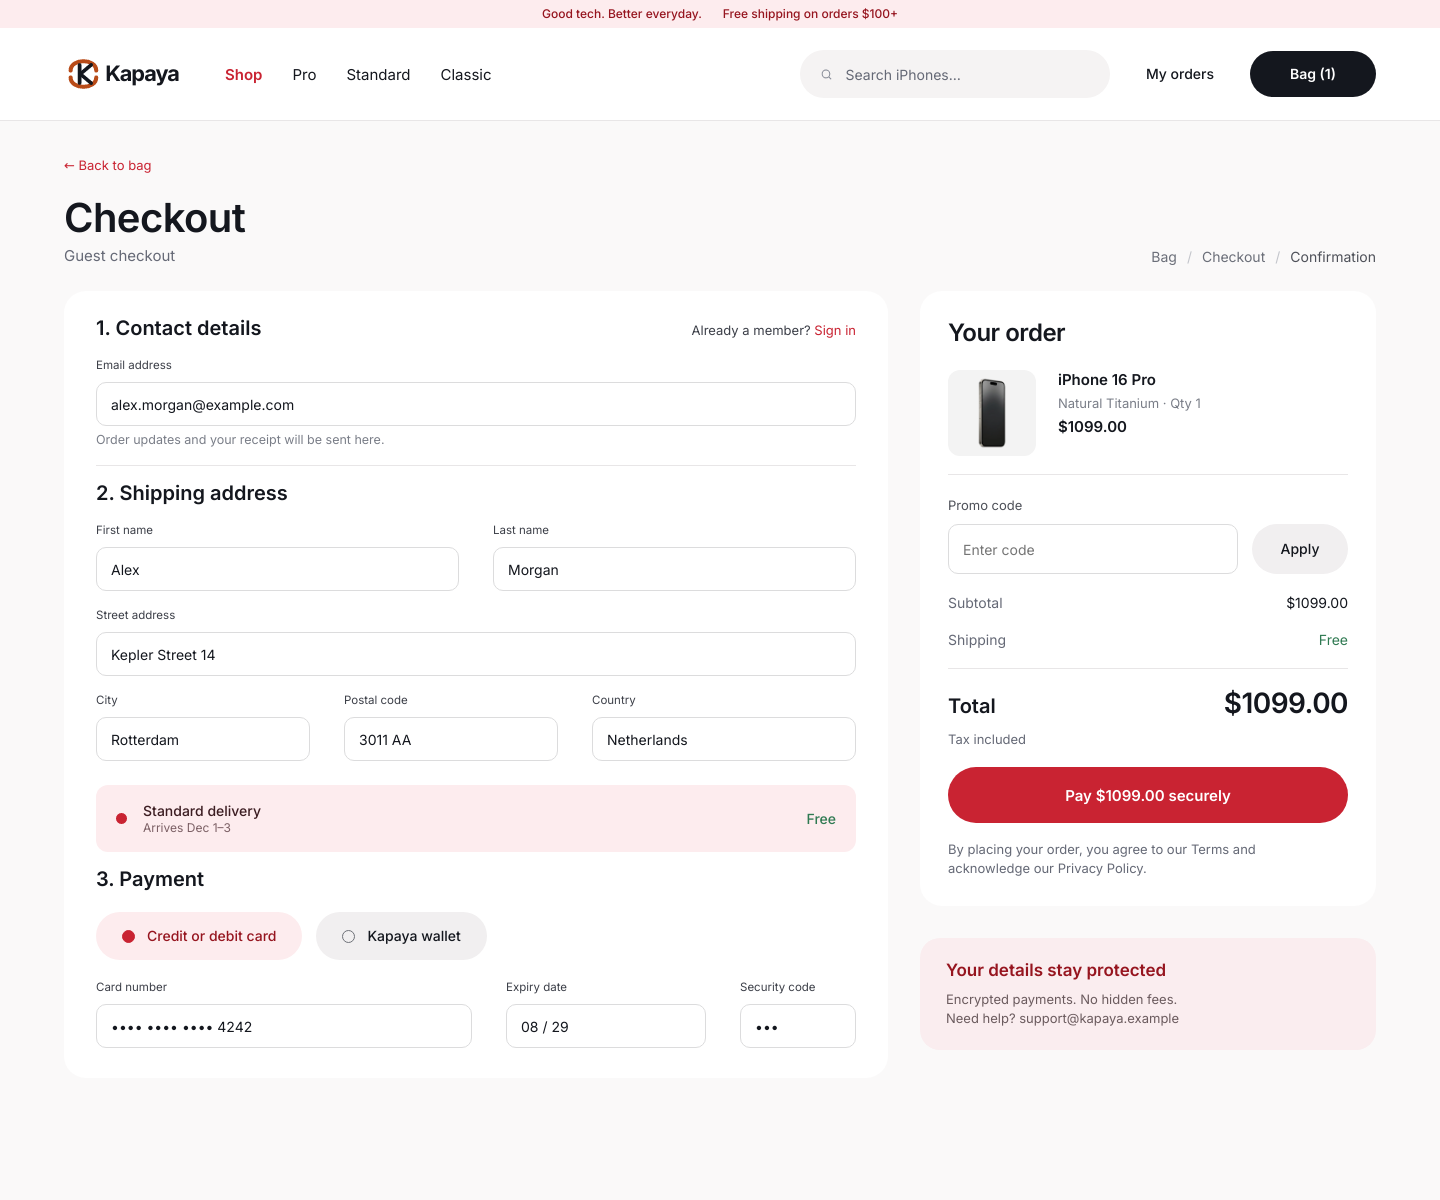
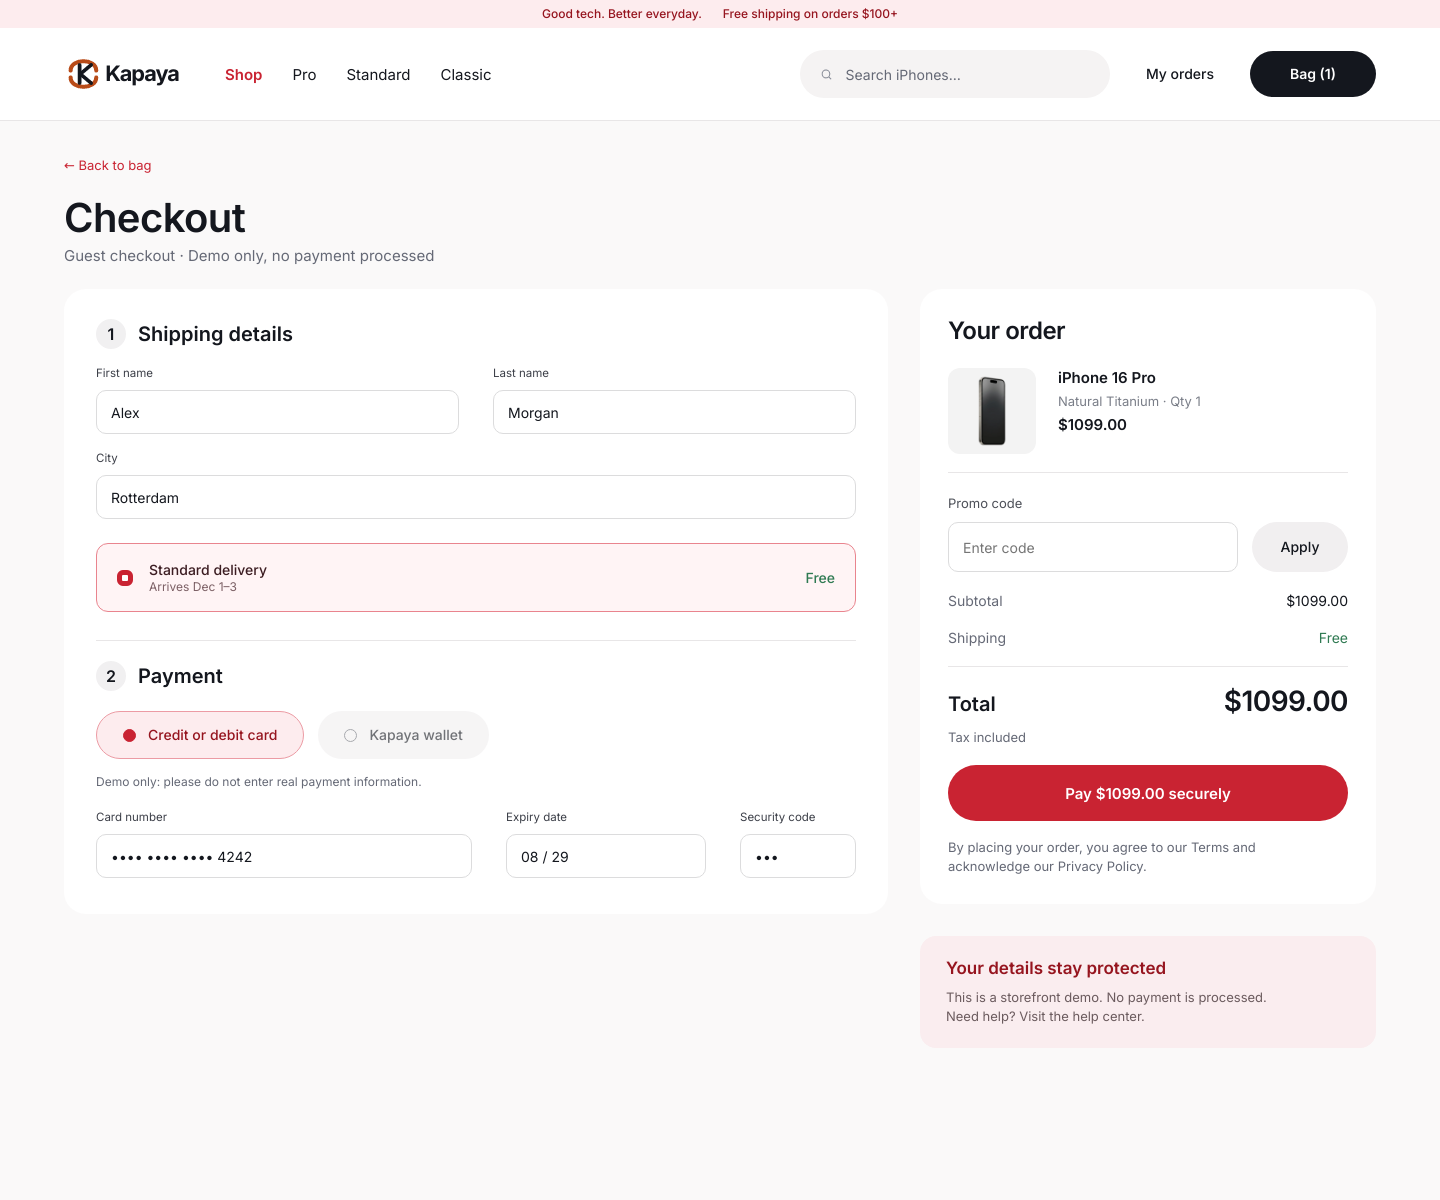
Refresh checkout and add mobile chat

diff --git a/docs/mockup/index.html b/docs/mockup/index.html
@@ -1264,6 +1264,71 @@ body.is-shop .shop-footer{display:block;margin-top:auto}
   .home-ftr{padding:36px 24px 24px}
 }
 
+/* Checkout and support chat */
+.checkout-page .co-grid{margin-top:24px}
+.checkout-page .co-card{padding:30px 32px 36px}
+.checkout-page .co-h{display:flex;align-items:center;gap:12px;font-size:20px}
+.co-number{display:inline-flex;align-items:center;justify-content:center;width:30px;height:30px;border-radius:50%;background:#f1f0f1;font:600 16px/1 Inter;flex:none}
+.checkout-page .deliv{border:1px solid #e9848e;background:#fff4f5}
+.checkout-page .deliv-dot{width:16px;height:16px;border:5px solid #c92332;background:white}
+.checkout-page .payment-rule{margin:28px 0 20px}
+.checkout-page .pay-tab.is-on{border:1px solid #ec9ba4}
+.checkout-page .pay-tab:disabled{opacity:.6;cursor:not-allowed}
+.checkout-demo-note{font:400 12px/17px Inter;color:#656976;margin-top:14px}
+.checkout-page .protect{border-radius:16px}
+.chat-page{max-width:900px;width:100%;margin:0 auto}
+.chat-panel{margin-top:24px;background:#fff;border-radius:22px;overflow:hidden;box-shadow:0 6px 30px rgba(20,23,30,.05);border:1px solid #f0eeee}
+.chat-header{display:flex;gap:17px;align-items:center;padding:28px 30px}
+.chat-avatar{width:52px;height:52px;flex:none;border-radius:50%;display:grid;place-items:center;background:#fcebed;color:#b91e2d;font:700 22px/1 Inter}
+.chat-eyebrow{font:600 10px/1.2 Inter;letter-spacing:.1em;color:#b91e2d}
+.chat-header h1{font:600 25px/31px Inter;letter-spacing:-.025em;margin-top:5px}
+.chat-header p:last-child{font:400 13px/19px Inter;color:#656976;margin-top:3px}
+.chat-notice{background:#fceff0;color:#8d3942;padding:12px 30px;font:500 12px/17px Inter}
+.chat-messages{min-height:260px;max-height:420px;overflow-y:auto;display:flex;flex-direction:column;gap:14px;padding:26px 30px}
+.chat-bubble{max-width:80%;padding:13px 16px;border-radius:16px;font:400 14px/21px Inter;overflow-wrap:anywhere;white-space:pre-wrap}
+.chat-reply{align-self:flex-start;background:#f5f4f4;border-bottom-left-radius:5px}
+.chat-sent{align-self:flex-end;background:#c92332;color:white;border-bottom-right-radius:5px}
+.chat-compose{padding:0 30px 18px}
+.chat-label{display:block;font:500 12px/16px Inter;color:#656976;margin-bottom:8px}
+.chat-input-row{display:flex;gap:10px}
+.chat-input-row input{flex:1;min-width:0;height:48px;border:1px solid #dedbdb;border-radius:24px;padding:0 18px;font:400 14px/1 Inter}
+.chat-input-row input:focus{outline:2px solid rgba(201,35,50,.25);border-color:#c92332}
+.chat-input-row button{height:48px;border-radius:24px;background:#14171e;color:#fff;padding:0 22px;font:600 13px/1 Inter}
+.chat-foot{border-top:1px solid #efeded;padding:16px 30px;color:#656976;font:400 12px/17px Inter}
+.chat-foot a{color:#c92332;font-weight:500}
+@media(max-width:767px){
+ .checkout-page{padding:18px 14px 32px}
+ .checkout-page .co-head{margin-top:12px}
+ .checkout-page .page-h{font-size:28px;line-height:34px}
+ .checkout-page .page-p{font-size:12px}
+ .checkout-page .co-grid{gap:12px;margin-top:16px}
+ .checkout-page .co-card{padding:20px 16px;border-radius:16px}
+ .checkout-page .co-h{font-size:18px;line-height:24px}
+ .checkout-page .two{grid-template-columns:repeat(2,minmax(0,1fr));gap:0 12px}
+ .checkout-page .fld{margin-top:14px}
+ .checkout-page .fld-l{margin-bottom:6px}
+ .checkout-page .fld-i{height:44px}
+ .checkout-page .deliv{padding:14px;margin-top:18px}
+ .checkout-page .payment-rule{margin:22px 0 18px}
+ .checkout-page .pay-tabs{flex-wrap:nowrap;gap:8px;margin-top:14px}
+ .checkout-page .pay-tab{height:42px;min-width:0;padding:0 12px;font-size:11px;gap:6px}
+ .checkout-page .pay-fields{grid-template-columns:repeat(2,minmax(0,1fr));gap:0 12px}
+ .checkout-page .pay-fields .w-card{grid-column:1 / -1}
+ .checkout-page .order-card{padding:20px 16px}
+ .checkout-page .protect{padding:18px;margin-top:12px}
+ .chat-page{padding:18px 14px 28px}
+ .chat-panel{margin-top:16px;border-radius:17px}
+ .chat-header{padding:22px 18px;gap:12px}
+ .chat-avatar{width:44px;height:44px;font-size:19px}
+ .chat-header h1{font-size:21px;line-height:27px}
+ .chat-header p:last-child{font-size:12px}
+ .chat-notice{padding:11px 18px;font-size:11px}
+ .chat-messages{padding:22px 18px;min-height:240px}
+ .chat-bubble{font-size:13px;line-height:19px;max-width:90%}
+ .chat-compose{padding:0 18px 16px}
+ .chat-foot{padding:14px 18px}
+}
+
 /* Bag: clear item controls and an editorial order summary. */
 .bag-page .bag-card{position:relative}
 .bag-page .bag-thumb img{object-fit:cover;padding:0}
@@ -1440,7 +1505,7 @@ body.is-shop .shop-footer{display:block;margin-top:auto}
     <nav id="mobile-menu" class="mobile-menu" aria-label="Mobile navigation" hidden>
       <div class="mobile-home-links"><a href="#the-edit" data-scroll="the-edit">The Edit</a><a href="#finishes" data-scroll="finishes">Finishes</a><a href="#generations" data-scroll="generations">Generations</a><a href="#why-kapaya" data-scroll="why-kapaya">Why Kapaya</a></div>
       <div class="mobile-store-links"><a data-go="shop">All iPhones</a><a data-go="shop" data-arg="pro">Pro</a><a data-go="shop" data-arg="standard">Standard</a><a data-go="shop" data-arg="classic">Classic</a></div>
-      <a data-go="account">My orders</a><a data-go="help">Help &amp; support</a><a class="mobile-menu-cta" data-go="shop">Start shopping <span>→</span></a>
+      <a data-go="account">My orders</a><a data-go="chat">Chat</a><a data-go="help">Help &amp; support</a><a class="mobile-menu-cta" data-go="shop">Start shopping <span>→</span></a>
     </nav>
   </div>
   <a class="mark" data-go="home" aria-label="Kapaya home"><svg class="brand-logo" viewBox="0 0 340 100" role="img" aria-label="Kapaya" xmlns="http://www.w3.org/2000/svg">
@@ -1491,10 +1556,10 @@ body.is-shop .shop-footer{display:block;margin-top:auto}
 </header>
 <div id="app"></div>
 <nav class="mobile-bottom" aria-label="Mobile navigation">
-    <button data-go="home" data-mobile-route="home"><svg viewBox="0 0 24 24" fill="none" stroke="currentColor" stroke-width="1.7" stroke-linecap="round" stroke-linejoin="round"><path d="M3 11 12 3l9 8M5 10v10h5v-6h4v6h5V10"/></svg><span>Home</span></button>
+    <button data-go="home" data-mobile-route="home"><svg viewBox="0 0 24 24" fill="none" stroke="currentColor" stroke-width="1.7" stroke-linecap="round" stroke-linejoin="round"><rect x="4" y="3" width="16" height="18" rx="2"/><path d="M8 8h8M8 12h8M8 16h5"/></svg><span>Landing</span></button>
     <button data-go="shop" data-mobile-route="shop"><svg viewBox="0 0 24 24" fill="none" stroke="currentColor" stroke-width="1.7"><rect x="5" y="2" width="14" height="20" rx="2"/><path d="M10 19h4"/></svg><span>Shop</span></button>
     <button data-go="account" data-mobile-route="account"><svg viewBox="0 0 24 24" fill="none" stroke="currentColor" stroke-width="1.7" stroke-linejoin="round"><path d="m12 2 9 5v10l-9 5-9-5V7zM3 7l9 5 9-5M12 12v10"/></svg><span>Orders</span></button>
-    <button data-mobile-menu data-mobile-route="more" aria-label="More navigation options" aria-expanded="false" aria-controls="mobile-menu"><svg viewBox="0 0 24 24" fill="none" stroke="currentColor" stroke-width="1.7"><circle cx="5" cy="12" r="1.5"/><circle cx="12" cy="12" r="1.5"/><circle cx="19" cy="12" r="1.5"/></svg><span>More</span></button>
+    <button data-go="chat" data-mobile-route="chat"><svg viewBox="0 0 24 24" fill="none" stroke="currentColor" stroke-width="1.7" stroke-linecap="round" stroke-linejoin="round"><path d="M20 11.5c0 4-3.6 7-8 7-1 0-2-.2-2.8-.5L5 20l1-3.8a6.8 6.8 0 0 1-2-4.7c0-4 3.6-7 8-7s8 3 8 7z"/><path d="M8.5 11.5h7"/></svg><span>Chat</span></button>
   </nav>
 <div class="toast" id="toast" role="status" aria-live="polite"></div>
 <script>
@@ -1936,39 +2001,25 @@ const checkout = (state) => {
   const f = state.form;
 
   return `
-<main class="page">
+<main class="page checkout-page">
   <a class="back" data-go="bag">← Back to bag</a>
 
   <div class="co-head">
     <div>
       <h1 class="page-h">Checkout</h1>
-      <p class="page-p">Guest checkout</p>
+      <p class="page-p">Guest checkout · Demo only, no payment processed</p>
     </div>
-    <p class="steps">Bag<span class="sep">/</span>Checkout<span class="sep">/</span><span class="steps-cur">Confirmation</span></p>
   </div>
 
   <form class="co-grid" data-checkout novalidate>
     <div class="co-main">
       <div class="co-card">
-        <div class="co-row-h">
-          <h2 class="co-h">1. Contact details</h2>
-          <p class="co-signin">Already a member? <a class="link-red" data-go="account">Sign in</a></p>
-        </div>
-        ${fld('Email address', 'email', f.email, { type: 'email' })}
-        <p class="co-help">Order updates and your receipt will be sent here.</p>
-        <div class="co-rule"></div>
-
-        <h2 class="co-h mt">2. Shipping address</h2>
+        <h2 class="co-h"><span class="co-number">1</span>Shipping details</h2>
         <div class="two">
           ${fld('First name', 'first', f.first)}
           ${fld('Last name', 'last', f.last)}
         </div>
-        ${fld('Street address', 'street', f.street)}
-        <div class="three">
-          ${fld('City', 'city', f.city)}
-          ${fld('Postal code', 'postal', f.postal)}
-          ${fld('Country', 'country', f.country)}
-        </div>
+        ${fld('City', 'city', f.city)}
 
         <div class="deliv">
           <span class="deliv-dot"></span>
@@ -1979,11 +2030,13 @@ const checkout = (state) => {
           <span class="deliv-free">${ship === 0 ? 'Free' : money(ship)}</span>
         </div>
 
-        <h2 class="co-h mt">3. Payment</h2>
+        <div class="co-rule payment-rule"></div>
+        <h2 class="co-h mt"><span class="co-number">2</span>Payment</h2>
         <div class="pay-tabs">
           <button type="button" class="pay-tab is-on"><span class="radio on"></span>Credit or debit card</button>
-          <button type="button" class="pay-tab"><span class="radio"></span>Kapaya wallet</button>
+          <button type="button" class="pay-tab" disabled title="Wallet is not available in this demo"><span class="radio"></span>Kapaya wallet</button>
         </div>
+        <p class="checkout-demo-note">Demo only: please do not enter real payment information.</p>
         <div class="pay-fields">
           ${fld('Card number', 'card', f.card, { cls: 'w-card', inputmode: 'numeric' })}
           ${fld('Expiry date', 'exp', f.exp, { cls: 'w-exp' })}
@@ -2026,7 +2079,7 @@ const checkout = (state) => {
 
       <div class="protect">
         <p class="protect-h">Your details stay protected</p>
-        <p class="protect-p">Encrypted payments. No hidden fees.<br>Need help? support@kapaya.example</p>
+        <p class="protect-p">This is a storefront demo. No payment is processed.<br>Need help? Visit the help center.</p>
       </div>
     </aside>
   </form>
@@ -2042,7 +2095,7 @@ const confirmed = (state) => {
     <div class="done-l">
       <p class="done-eyebrow">ORDER ${o.id} · ${o.date}</p>
       <h1 class="done-h">Thanks, ${o.first}. You’re all set.</h1>
-      <p class="done-p">Your payment of ${money(total)} was successful. A receipt is on its way to<br>${o.email}</p>
+      <p class="done-p">Your demo order total is ${money(total)}. No payment was processed.</p>
       <div class="done-actions">
         <button class="btn-red btn-details" data-go="order">View order details</button>
         <button class="btn-plain" data-go="shop">Continue shopping</button>
@@ -2059,7 +2112,7 @@ const confirmed = (state) => {
     <div class="done-col">
       <div class="track-card">
         <h2 class="card-h">Your order is getting ready</h2>
-        <p class="track-p">We’ll email you tracking details as soon as it ships.</p>
+        <p class="track-p">This is a demo order; no shipment will be created.</p>
         <div class="track">
           ${[['01', 'Confirmed', true], ['02', 'Preparing'], ['03', 'Shipped'], ['04', 'Delivered']]
             .map(([n, l, done]) => `<div class="track-i${done ? ' is-done' : ''}">
@@ -2073,14 +2126,14 @@ const confirmed = (state) => {
         <div class="info-col">
           <h3 class="info-h">Delivering to</h3>
           <p class="info-b">${o.first} ${o.last}</p>
-          <p class="info-p">${o.street}<br>${o.postal} ${o.city}<br>${o.country}</p>
+          <p class="info-p">${o.street ? o.street + '<br>' : ''}${o.postal ? o.postal + ' ' : ''}${o.city}${o.country ? '<br>' + o.country : ''}</p>
         </div>
         <div class="info-sep"></div>
         <div class="info-col">
           <h3 class="info-h">Payment details</h3>
           <p class="info-b">Visa ending in ${o.last4}</p>
-          <p class="info-p">${money(total)} paid · Tax included</p>
-          <a class="info-link" data-receipt>Download receipt <span class="arw">→</span></a>
+          <p class="info-p">${money(total)} demo total · Tax included</p>
+
         </div>
       </div>
     </div>
@@ -2173,7 +2226,7 @@ const account = (state) => `
       </div>
       <div class="protect">
         <p class="protect-h">Your details stay protected</p>
-        <p class="protect-p">Encrypted payments. No hidden fees.<br>Need help? support@kapaya.example</p>
+        <p class="protect-p">This is a storefront demo. No payment is processed.<br>Need help? Visit the help center.</p>
       </div>
     </aside>
   </div>
@@ -2207,14 +2260,14 @@ const orderDetail = (state) => {
         <div class="info-col">
           <h3 class="info-h">Delivering to</h3>
           <p class="info-b">${o.first} ${o.last}</p>
-          <p class="info-p">${o.street}<br>${o.postal} ${o.city}<br>${o.country}</p>
+          <p class="info-p">${o.street ? o.street + '<br>' : ''}${o.postal ? o.postal + ' ' : ''}${o.city}${o.country ? '<br>' + o.country : ''}</p>
         </div>
         <div class="info-sep"></div>
         <div class="info-col">
           <h3 class="info-h">Payment details</h3>
           <p class="info-b">Visa ending in ${o.last4}</p>
           <p class="info-p">${money(o.total)} paid · Tax included</p>
-          <a class="info-link" data-receipt>Download receipt <span class="arw">→</span></a>
+
         </div>
       </div>
     </div>
@@ -2266,7 +2319,22 @@ const help = () => `
     <a class="btn-plain sm" data-go="shop">Back to shopping <span class="arw">→</span></a>
   </div>
 </main>`;
-const VIEWS = { home, shop, product, bag, checkout, confirmed, account, order: orderDetail, help };
+const escapeText = (text) => String(text).replace(/&/g, '&amp;').replace(/</g, '&lt;').replace(/>/g, '&gt;').replace(/"/g, '&quot;');
+const chat = (state) => `
+<main class="page chat-page">
+  <a class="back" data-go="shop">← Back to shopping</a>
+  <section class="chat-panel" aria-labelledby="chat-title">
+    <div class="chat-header"><div class="chat-avatar" aria-hidden="true">K</div><div><p class="chat-eyebrow">KAPAYA SUPPORT</p><h1 id="chat-title">Let’s chat</h1><p>Questions about your iPhone? We’re here to help.</p></div></div>
+    <div class="chat-notice">Demo chat · Messages are not sent to a support team.</div>
+    <div class="chat-messages" aria-live="polite" aria-label="Conversation">
+      <div class="chat-bubble chat-reply">Hi there! Welcome to Kapaya. What can we help you with today?</div>
+      ${state.messages.map((message) => `<div class="chat-bubble chat-sent">${escapeText(message)}</div><div class="chat-bubble chat-reply">Thanks for your message. This is a demo chat, so no one will receive it. Explore our help center for more information.</div>`).join('')}
+    </div>
+    <form class="chat-compose" data-chat-form><label class="chat-label" for="chat-message">Your message</label><div class="chat-input-row"><input id="chat-message" name="message" maxlength="500" placeholder="Write a message…" required autocomplete="off"><button type="submit">Send <span aria-hidden="true">→</span></button></div></form>
+    <div class="chat-foot">Need more information? <a data-go="help">Visit the help center →</a></div>
+  </section>
+</main>`;
+const VIEWS = { home, shop, product, bag, checkout, confirmed, account, order: orderDetail, help, chat };
 
 const initialParts = location.hash.replace(/^#\/?/, '').split('/');
 const initialRoute = initialParts[0] === 'orders' ? 'order' : initialParts[0];
@@ -2276,7 +2344,7 @@ let expectedHash = location.hash || '#/home';
 
 const store = {
   route: VIEWS[initialRoute] ? initialRoute : 'home', arg: null,
-  cart: [], favs: [], orders: [],
+  cart: [], favs: [], orders: [], messages: [],
   cat: initialRoute === 'shop' && initialArg && !['all', 'store'].includes(initialArg) ? initialArg : 'all',
   sort: 'featured', query: '',
   product: initialProduct, qty: 1, color: initialProduct.colors[0], storage: '128GB', galleryIndex: 0, tab: 'overview',
@@ -2304,7 +2372,7 @@ try {
     if (Array.isArray(saved.cart)) store.cart = saved.cart;
     if (Array.isArray(saved.favs)) store.favs = saved.favs;
     if (Array.isArray(saved.orders)) store.orders = saved.orders;
-    if (saved.form) Object.assign(store.form, saved.form);
+    if (saved.form) { const {card, exp, cvc, ...details} = saved.form; Object.assign(store.form, details); }
   }
   if (legacyKey) localStorage.removeItem(legacyKey);
 } catch (e) {}
@@ -2312,7 +2380,7 @@ try {
 const persist = () => {
   try {
     localStorage.setItem(APP_STATE_KEY, JSON.stringify({
-      cart: store.cart, favs: store.favs, orders: store.orders, form: store.form,
+      cart: store.cart, favs: store.favs, orders: store.orders, form: (({card, exp, cvc, ...details}) => details)(store.form),
     }));
   } catch (e) {}
 };
@@ -2398,7 +2466,7 @@ function paint() {
     el.textContent = el.classList.contains('hdr-n') ? String(count()) : 'Bag (' + count() + ')';
   });
   renderFavs();
-  const mobileRoute = store.route === 'home' ? 'home' : ['account', 'order'].includes(store.route) ? 'account' : store.route === 'help' ? 'more' : 'shop';
+  const mobileRoute = store.route === 'home' ? 'home' : ['account', 'order'].includes(store.route) ? 'account' : ['chat', 'help'].includes(store.route) ? 'chat' : 'shop';
   $$('[data-mobile-route]').forEach((el) => { const active = el.dataset.mobileRoute === mobileRoute; el.classList.toggle('is-current', active); if (active) el.setAttribute('aria-current', 'page'); else el.removeAttribute('aria-current'); });
 
   const si = $('.search input');
@@ -2596,6 +2664,16 @@ document.addEventListener('input', (e) => {
 });
 
 document.addEventListener('submit', (e) => {
+  if (e.target.matches('[data-chat-form]')) {
+    e.preventDefault();
+    const input = $('input[name="message"]', e.target), message = input.value.trim();
+    if (!message) return;
+    store.messages.push(message);
+    paint();
+    const list = $('.chat-messages'); list.scrollTop = list.scrollHeight;
+    $('#chat-message').focus();
+    return;
+  }
   if (e.target.matches('[data-mobile-search]')) { e.preventDefault(); store.query = $('input', e.target).value.trim(); go('shop', 'all'); return; }
   if (e.target.matches('[data-search]')) {
     e.preventDefault();
@@ -2607,10 +2685,8 @@ document.addEventListener('submit', (e) => {
   e.preventDefault();
   const f = store.form;
   const bad = [];
-  if (!/^[^@\s]+@[^@\s]+\.[^@\s]+$/.test(f.email)) bad.push('email');
   if (!f.first.trim()) bad.push('first');
   if (!f.last.trim()) bad.push('last');
-  if (!f.street.trim()) bad.push('street');
   if (!f.city.trim()) bad.push('city');
 
   const err = $('[data-err]');
@@ -2636,8 +2712,8 @@ document.addEventListener('submit', (e) => {
     id: 'KAP-' + (88217 + store.orders.length),
     date: 'NOV 26, 2026',
     status: 'Confirmed',
-    first: f.first, last: f.last, email: f.email,
-    street: f.street, city: f.city, postal: f.postal, country: f.country,
+    first: f.first, last: f.last, email: '',
+    street: '', city: f.city, postal: '', country: '',
     last4: digits.slice(-4) || '4242',
     lines: store.cart.slice(),
     subtotal: subtotal, discount: store.discount, total: total,
